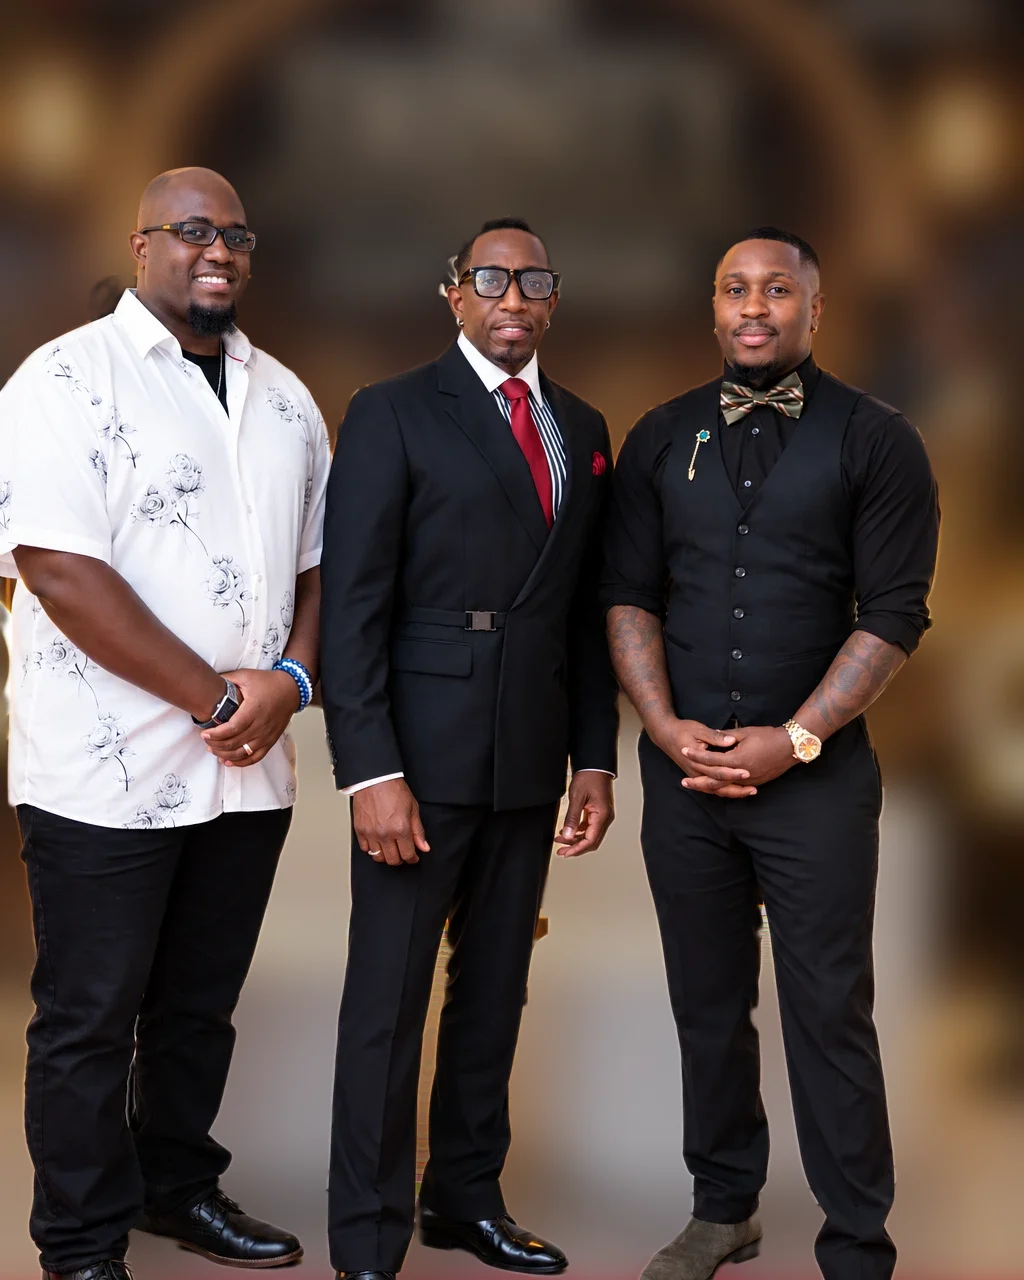
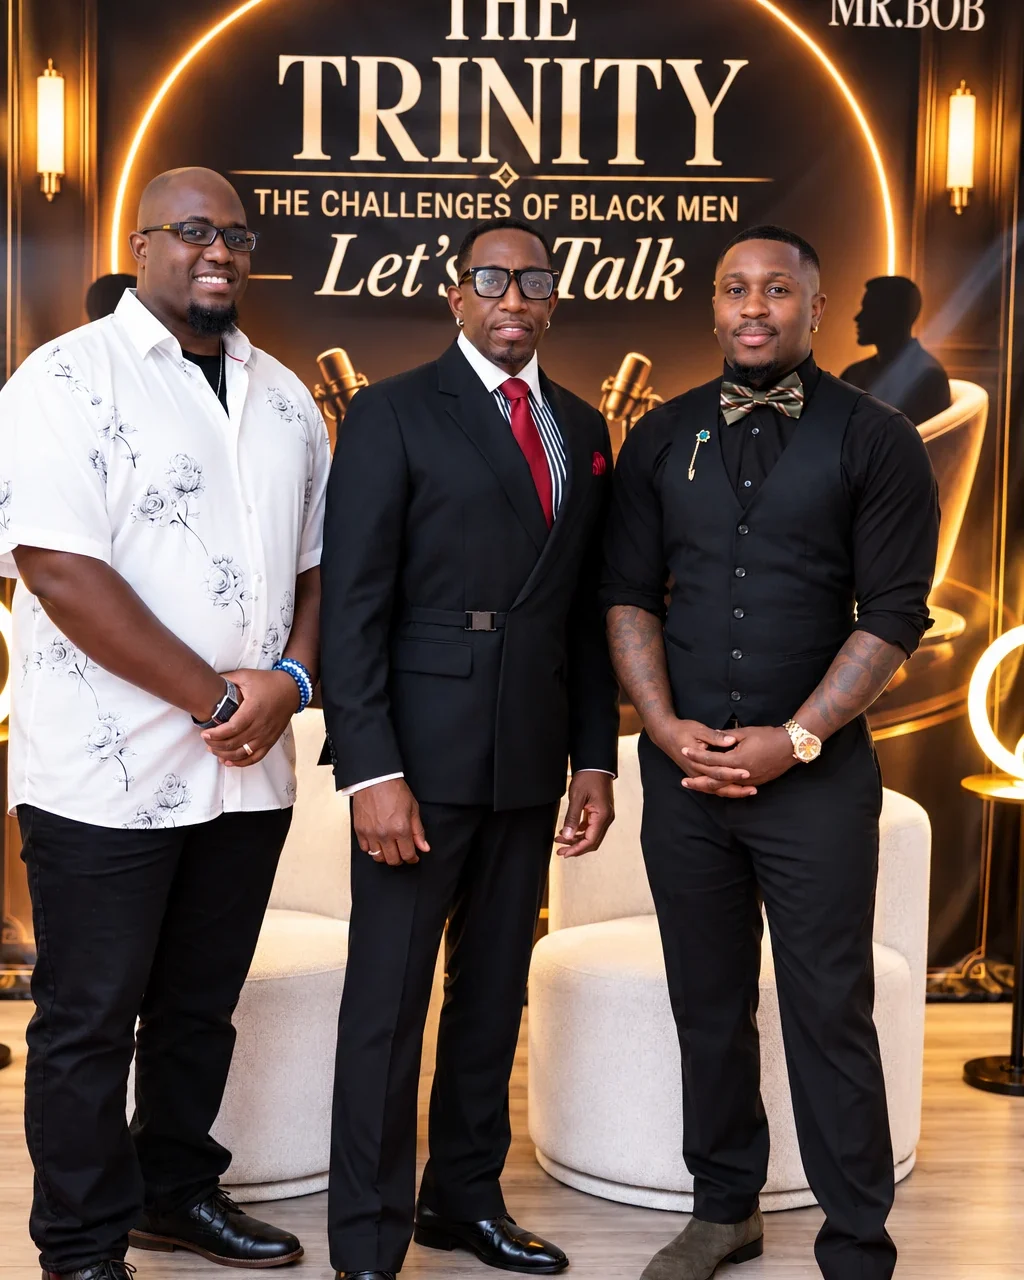
Trinity photo as is on the homepage; head and shoulders portraits of Jamal, Robert and Elijah on About

diff --git a/about/index.html b/about/index.html
@@ -61,7 +61,9 @@
   .timeline li { grid-template-columns: 1fr; gap: 12px; }
   .timeline .yr { grid-row: auto; margin-bottom: 6px; }
 }
-.fam-cap { margin-top: 14px; font-size: 0.72rem; font-weight: 500; letter-spacing: 0.18em; text-transform: uppercase; color: var(--ivory-60); }
+.trio { display: grid; grid-template-columns: repeat(3, minmax(0, 1fr)); gap: clamp(14px, 2vw, 28px); max-width: 980px; margin-top: clamp(40px, 5vw, 64px); }
+.trio figcaption { margin-top: 14px; font-size: 0.72rem; font-weight: 500; letter-spacing: 0.18em; text-transform: uppercase; color: var(--ivory-60); }
+@media (max-width: 560px) { .trio { gap: 8px; } .trio figcaption { font-size: 0.66rem; letter-spacing: 0.12em; margin-top: 10px; } }
 .team-photo { margin-top: 40px; }
 .team-photo figcaption { margin-top: 12px; font-size: 0.875rem; color: var(--ivory-60); }
 </style>
@@ -167,16 +169,17 @@
 
 <!-- FAMILY -->
 <section class="section" style="padding-bottom:0">
-  <div class="wrap split">
+  <div class="wrap">
     <div class="reveal">
       <span class="eyebrow">The family</span>
       <h2 class="h2">Robert and his sons.</h2>
       <p class="lede" style="margin-top:24px">Jamal and Elijah help their father run Inviting Events.</p>
     </div>
-    <figure class="reveal">
-      <div class="frame" style="aspect-ratio:2/3"><img src="/assets/media/photos/pope-trinity.webp" alt="Jamal, Robert and Elijah" loading="lazy" width="1024" height="1536"></div>
-      <figcaption class="fam-cap">From left: Jamal, Robert and Elijah</figcaption>
-    </figure>
+    <div class="trio reveal">
+      <figure><div class="frame frame--45"><img src="/assets/media/photos/pope-jamal.webp" alt="Jamal" loading="lazy" width="640" height="800"></div><figcaption>Jamal</figcaption></figure>
+      <figure><div class="frame frame--45"><img src="/assets/media/photos/pope-robert.webp" alt="Robert Pope" loading="lazy" width="640" height="800"></div><figcaption>Robert</figcaption></figure>
+      <figure><div class="frame frame--45"><img src="/assets/media/photos/pope-elijah.webp" alt="Elijah" loading="lazy" width="640" height="800"></div><figcaption>Elijah</figcaption></figure>
+    </div>
   </div>
 </section>
 
